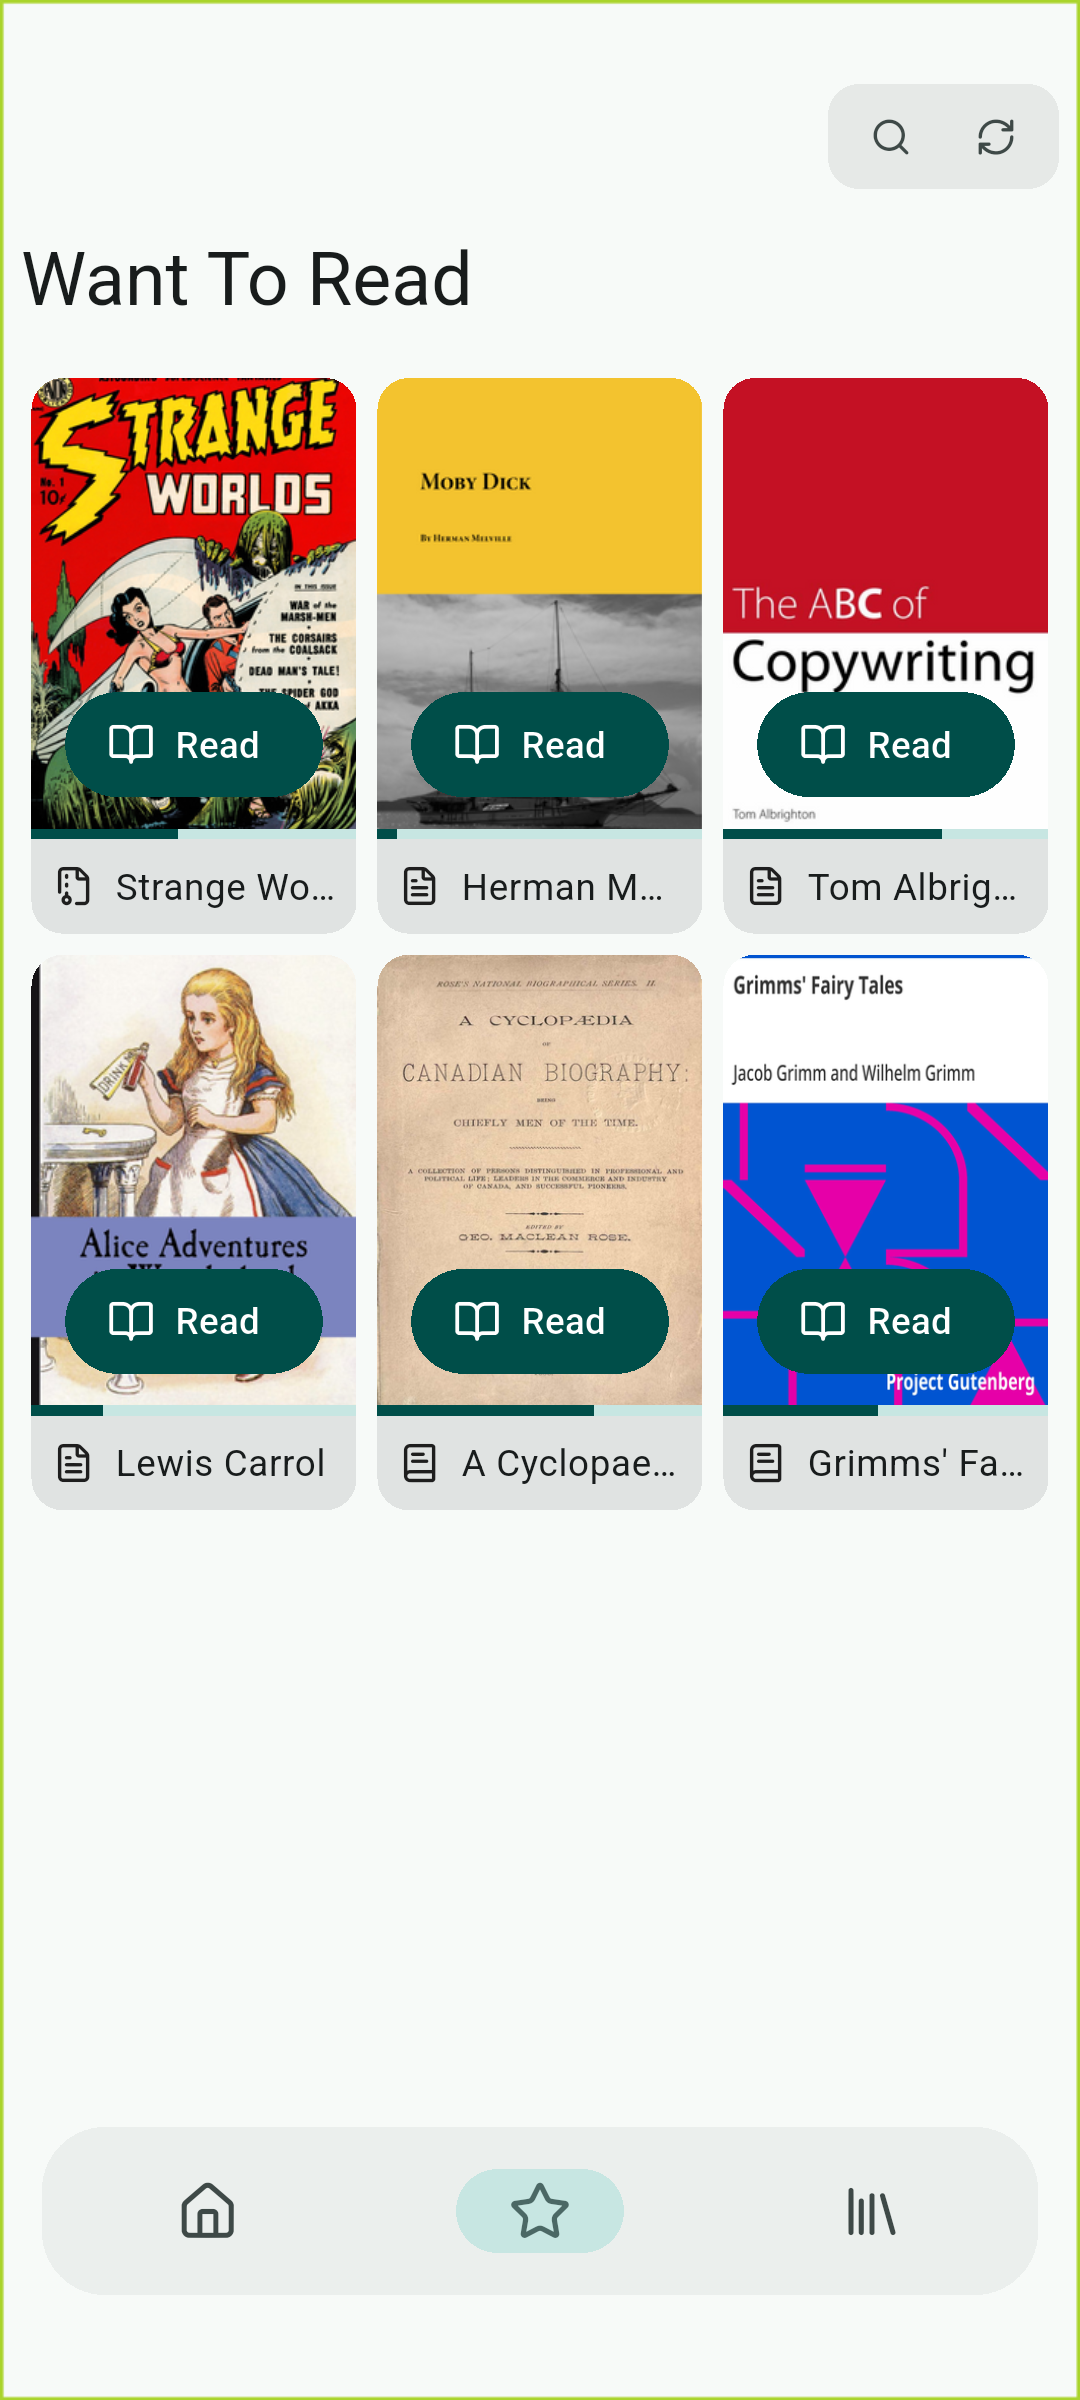
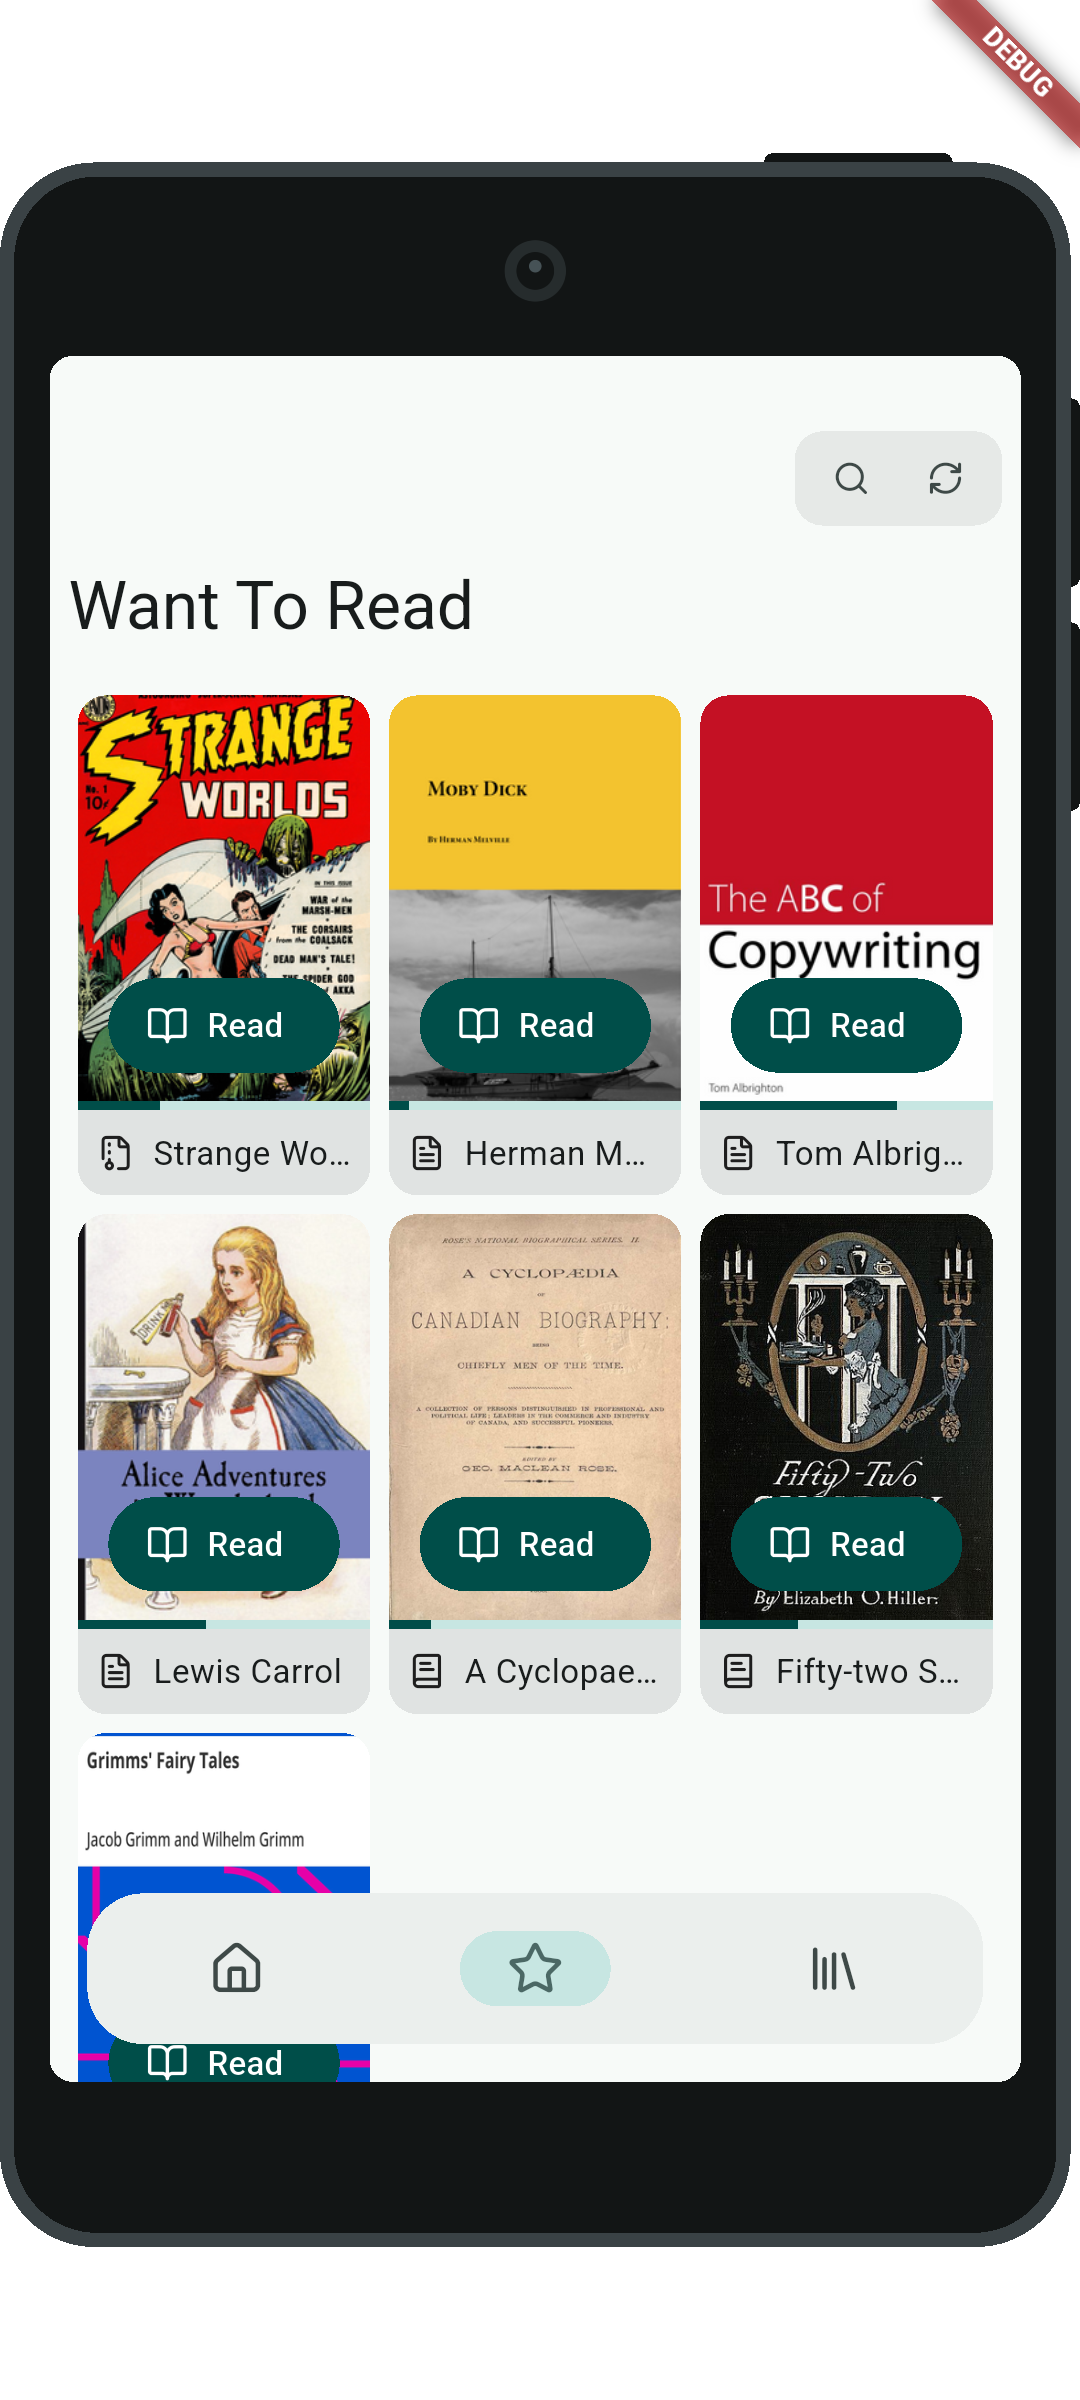
wip more screenshots

diff --git a/integration_test/screenshots_test.dart b/integration_test/screenshots_test.dart
@@ -1,15 +1,19 @@
+import 'dart:async';
 import 'dart:io';
 import 'dart:ui';
 
+import 'package:flutter/material.dart';
 import 'package:flutter_test/flutter_test.dart';
 import 'package:hooks_riverpod/hooks_riverpod.dart';
 import 'package:integration_test/integration_test.dart';
 import 'package:kover/main.dart';
 import 'package:kover/riverpod/managers/sync_manager.dart';
+import 'package:kover/riverpod/providers/reader/epub_reader.dart';
+import 'package:kover/riverpod/providers/reader/reader_navigation.dart';
 import 'package:kover/riverpod/providers/router.dart';
 import 'package:kover/riverpod/providers/settings/credentials.dart';
 import 'package:kover/riverpod/providers/settings/oneoffs.dart';
-import 'package:kover/riverpod/providers/theme.dart';
+import 'package:kover/utils/layout_constants.dart';
 import 'package:kover/utils/logging.dart';
 
 void main() {
@@ -81,9 +85,69 @@ void main() {
           container: container,
           binding: binding,
         );
+
+        await takePageScreenshot(
+          'series_details',
+          route: const SeriesDetailRoute(seriesId: 10).location,
+          tester: tester,
+          container: container,
+          binding: binding,
+        );
       });
     });
   }
+
+  // testWidgets('epub reader screenshot', (tester) async {
+  //   final targetSeries = 1;
+  //   final targetChapter = 38;
+  //   final targetPage = 11;
+  //
+  //   final container = await initializeApp(tester);
+  //   container
+  //       .read(routerProvider)
+  //       .go(
+  //         ReaderRoute(
+  //           seriesId: targetSeries,
+  //           chapterId: targetChapter,
+  //         ).location,
+  //       );
+  //
+  //   await tester.pump(Duration(seconds: 30));
+  //
+  //   var chapterReady = false;
+  //   container.listen(
+  //     epubNavigationProvider(seriesId: targetSeries, chapterId: targetPage),
+  //     (
+  //       previous,
+  //       next,
+  //     ) {
+  //       log.debug('epub navigation state changed: $next');
+  //       next.whenData((data) {
+  //         chapterReady = data.ready;
+  //       });
+  //     },
+  //     fireImmediately: true,
+  //   );
+  //
+  //   await container
+  //       .read(
+  //         epubNavigationProvider(
+  //           seriesId: targetSeries,
+  //           chapterId: targetChapter,
+  //         ).notifier,
+  //       )
+  //       .jumpToPage(targetPage);
+  //
+  //   while (!chapterReady) {
+  //     await tester.pump(const Duration(seconds: 1));
+  //     log.debug('waiting for chapter to be ready');
+  //   }
+  //
+  //   await binding.screenshot(
+  //     tester,
+  //     'epub_reader',
+  //   );
+  // });
 }
 
 Future<ProviderContainer> initializeApp(WidgetTester tester) async {
@@ -102,7 +166,7 @@ Future<ProviderContainer> initializeApp(WidgetTester tester) async {
   await tester.pumpWidget(
     UncontrolledProviderScope(
       container: container,
-      child: const App(),
+      child: GenericDeviceFrame(child: const App()),
     ),
   );
   var fetching = true;
@@ -117,6 +181,67 @@ Future<ProviderContainer> initializeApp(WidgetTester tester) async {
     log.debug('waiting for sync to finish');
   }
   return container;
+}
+
+class GenericDeviceFrame extends StatelessWidget {
+  final Widget child;
+  final Size
+  screenSize; // e.g., Size(390, 844) for standard mobile aspect ratio
+
+  const GenericDeviceFrame({
+    super.key,
+    required this.child,
+    this.screenSize = const Size(375, 812), // Generic smartphone ratio
+  });
+
+  @override
+  Widget build(BuildContext context) {
+    return Container(
+      color: Colors.transparent,
+      child: Padding(
+        padding: LayoutConstants.largeEdgeInsets,
+        child: Directionality(
+          textDirection: .ltr,
+          child: Center(
+            child: Container(
+              // Outer frame decoration (the "bezel")
+              padding: const EdgeInsets.all(12.0),
+              decoration: BoxDecoration(
+                color: const Color(0xFF1A1A1A), // Dark matte generic bezel
+                borderRadius: BorderRadius.circular(40),
+                boxShadow: [
+                  BoxShadow(
+                    color: Colors.black.withAlpha(50),
+                    blurRadius: 24,
+                    offset: const Offset(0, 12),
+                  ),
+                ],
+              ),
+              child: SizedBox(
+                width: screenSize.width,
+                height: screenSize.height,
+                // Clip the app content to match the bezel's inner curve
+                child: ClipRRect(
+                  borderRadius: BorderRadius.circular(28),
+                  child: MediaQuery(
+                    // Injects simulated screen metrics into your app
+                    data: MediaQueryData(
+                      size: screenSize,
+                      padding: const EdgeInsets.only(top: 44, bottom: 34),
+                      viewPadding: const EdgeInsets.only(top: 44, bottom: 34),
+                    ),
+                    child: Scaffold(
+                      body: child,
+                    ),
+                  ),
+                ),
+              ),
+            ),
+          ),
+        ),
+      ),
+    );
+  }
 }
 
 Future<void> takePageScreenshot(
